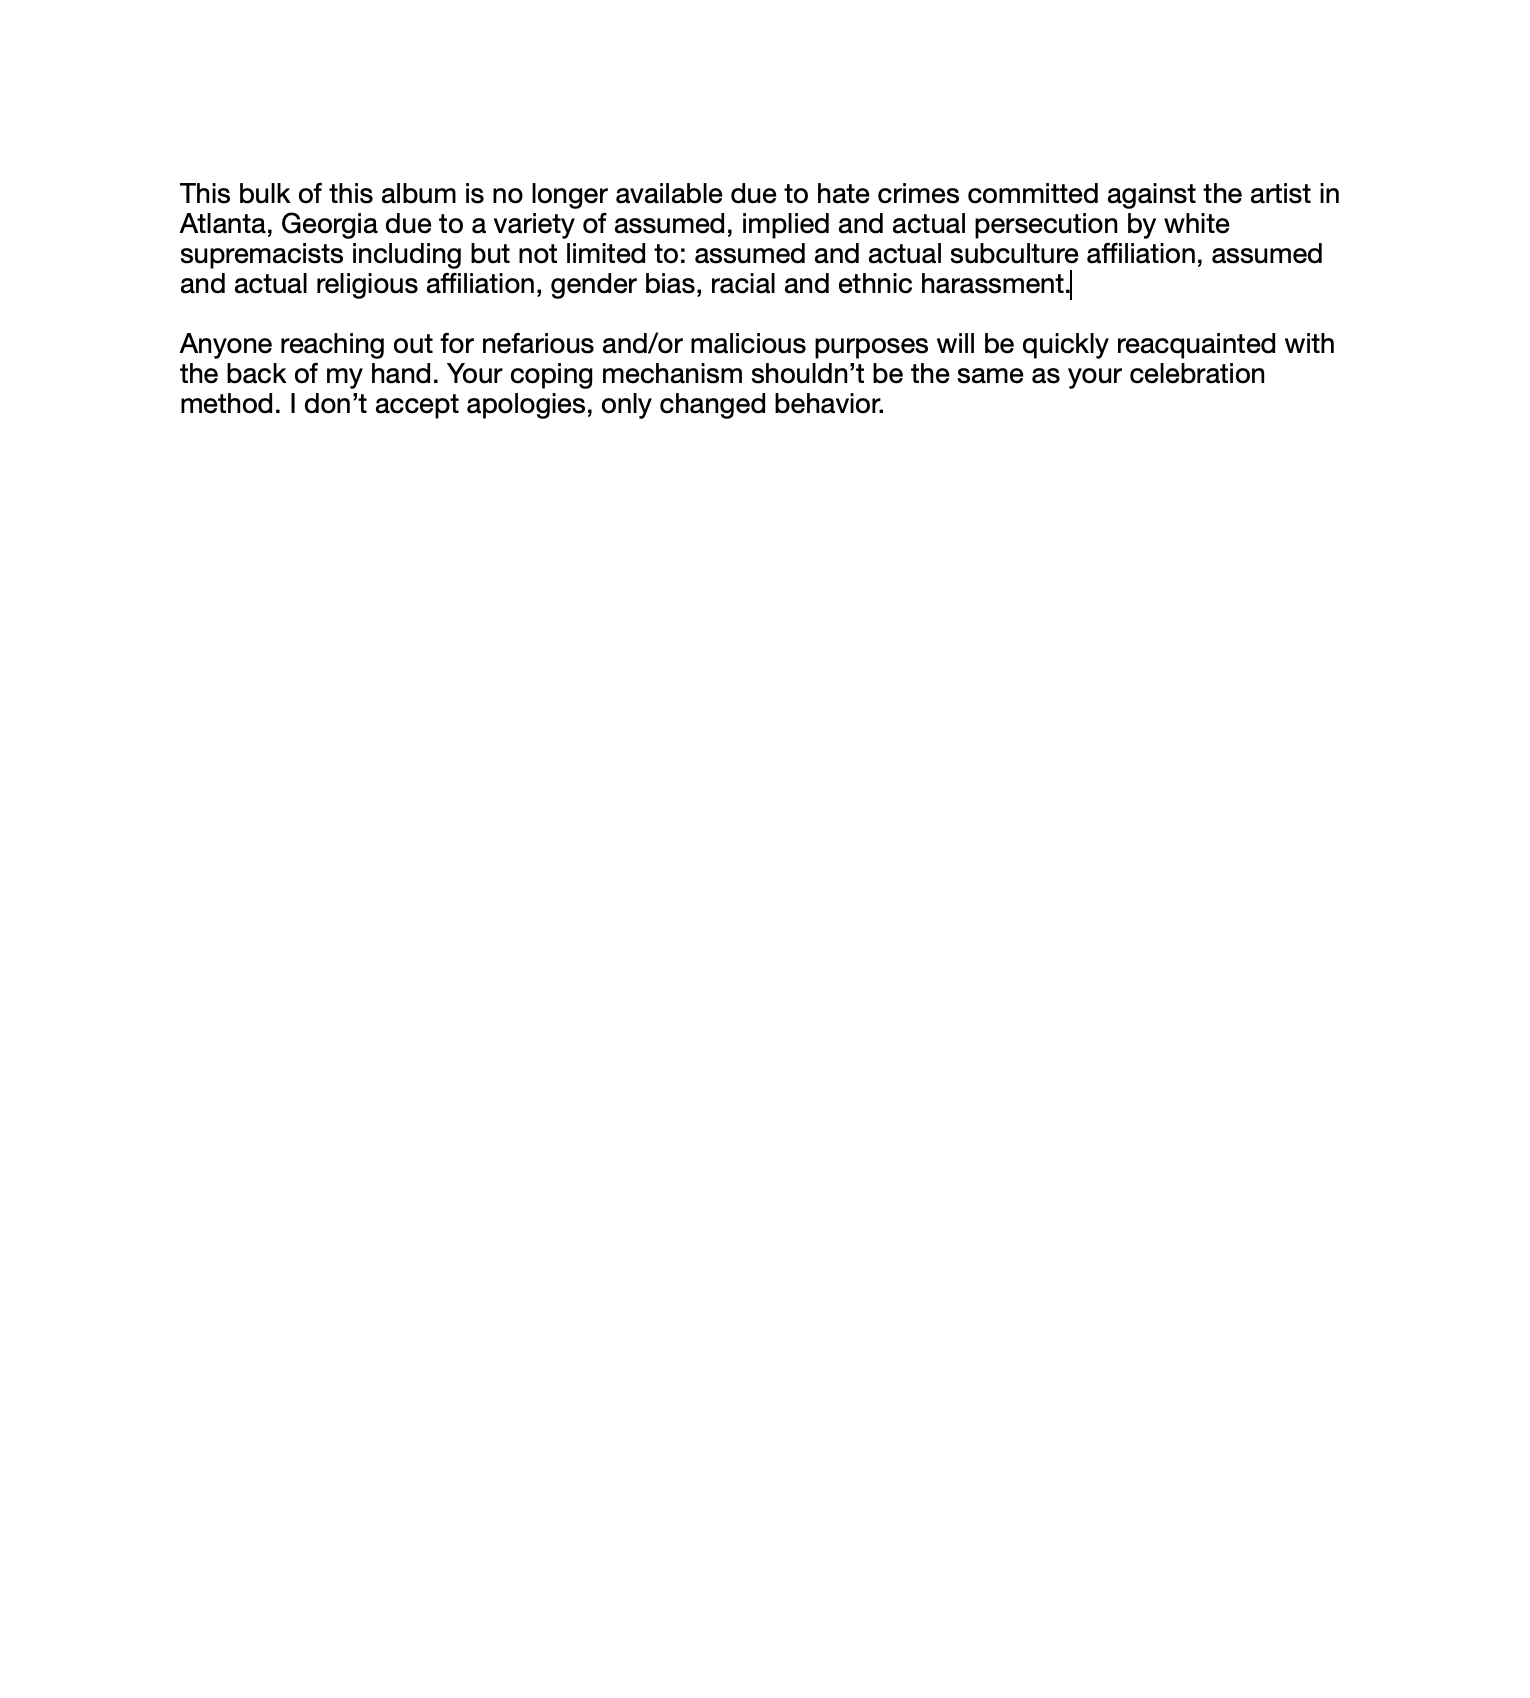
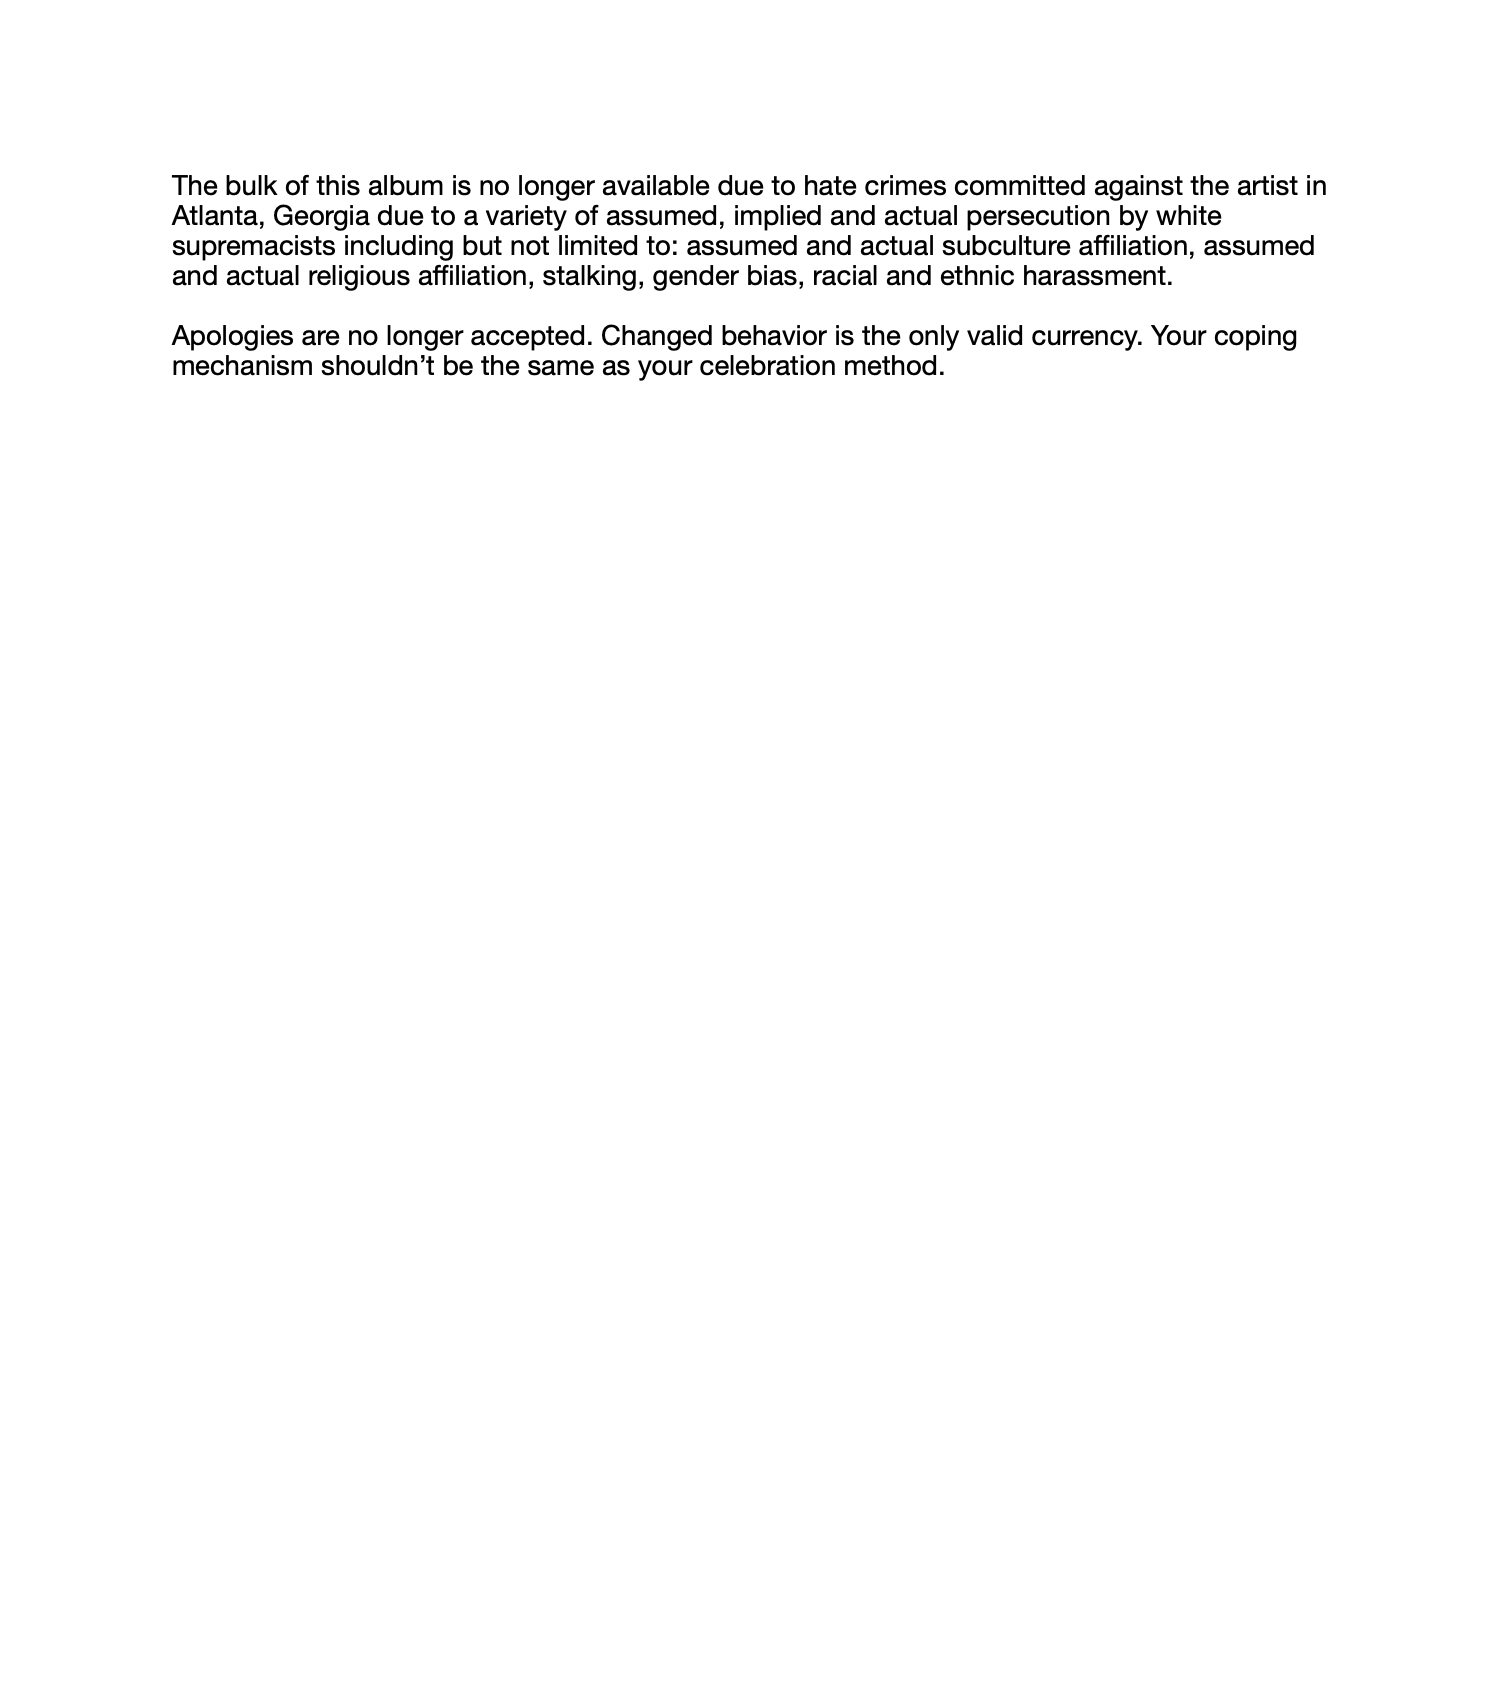
statement update and youtube link

Changed region(s): [[0.0935, 0.0926, 0.8727, 0.247]]

diff --git a/index.html b/index.html
@@ -168,7 +168,7 @@
 
 
                            
-                        <a href="https://www.youtube.com/watch?v=lzHwRcOsDNw" title="email" class="pageLink" target="_blank">  
+                        <a href="https://www.youtube.com/watch?v=b8VFfOXji48" title="email" class="pageLink" target="_blank">  
                          <img id = "emailLink" class = "linkIcon" src = "/public/icons/ayoiii.jpg" alt = "email"><BR>
 
                             <img src="/public/photos/contact.jpg">
